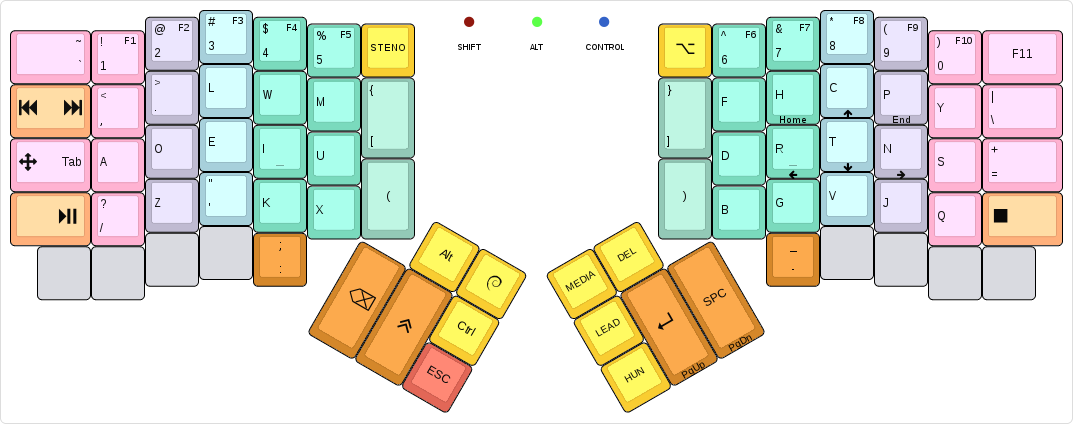
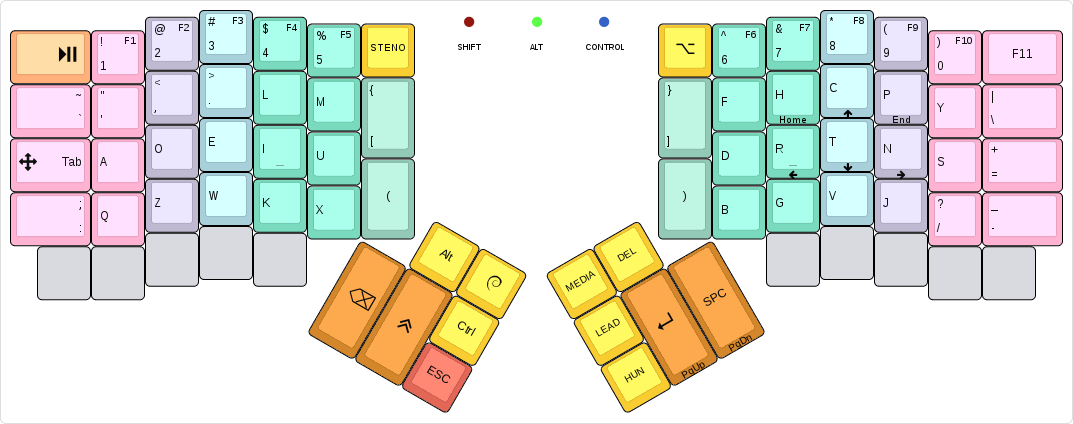
ADORE: Major changes
Changed a lot of things, based on recentish experiments. This is still a work in
progress, the heatmap base has to be updated still, for example. But this
addresses the key points of #77.

Does not fix it yet, because I need to test these changes.

diff --git a/keymap.c b/keymap.c
@@ -157,18 +157,18 @@ const uint16_t PROGMEM keymaps[][MATRIX_ROWS][MATRIX_COLS] = {
 /* Keymap 1: Adore layer
  *
  * ,-----------------------------------------------------.           ,-----------------------------------------------------.
- * |        `~ | 1 F1 | 2 F2 | 3 F3 | 4 F4 | 5 F5 | Plvr |           | Apps | 6 F6 | 7 F7 | 8 F8 | 9 F9 | 0 F10|       F11 |
+ * | Play/Pause| 1 F1 | 2 F2 | 3 F3 | 4 F4 | 5 F5 | Plvr |           | Apps | 6 F6 | 7 F7 | 8 F8 | 9 F9 | 0 F10|       F11 |
  * |-----------+------+------+------+------+-------------|           |------+------+------+------+------+------+-----------|
- * | Next/Prev |   ,  |   .  |   L  |   W  |   M  |   [  |           |  ]   |   F  |   H  |   C  |   P  |  Y   | \         |
+ * |        `~ |   '  |   ,  |   .  |   L  |   M  |   [  |           |  ]   |   F  |   H  |   C  |   P  |  Y   | \         |
  * |-----------+------+------+------+------+------|      |           |      |------+------+------+------+------+-----------|
- * | Tab/Arrow |   A  |   O  |   E  |   I  |   U  |------|           |------|   D  |   R  |   T  |   N  |  S   | = / Arrow |
+ * | Tab/Arrow |   A  |   O  |   E  |   I  |   U  |------|           |------|   D  |   R  |   T  |   N  |  S   | =         |
  * |-----------+------+------+------+------+------|   (  |           |  )   |------+------+------+------+------+-----------|
- * | Play/Pause|   /  |   Z  |   '  |   K  |   X  |      |           |      |   B  |   G  |   V  |   J  |  Q   |      Stop |
+ * |         : |   Q  |   Z  |   W  |   K  |   X  |      |           |      |   B  |   G  |   V  |   J  |  /   | -         |
  * `-----------+------+------+------+------+-------------'           `-------------+------+------+------+------+-----------'
- *     |       |      |      |      |   :  |                                       |   -  |      |      |      |       |
+ *     |       |      |      |      |      |                                       |      |      |      |      |       |
  *     `-----------------------------------'                                       `-----------------------------------'
  *                                         ,-------------.           ,-------------.
- *                                         | LAlt | GUI  |           | MDIA |      |
+ *                                         | LAlt | GUI  |           | MDIA | Del  |
  *                                  ,------|------|------|           |------+------+------.
  *                                  |      |      | Ctrl |           | LEAD |      |      |
  *                                  |Backsp|LShift|------|           |------| Enter| Space|
@@ -177,22 +177,22 @@ const uint16_t PROGMEM keymaps[][MATRIX_ROWS][MATRIX_COLS] = {
  */
 [ADORE] = KEYMAP(
 // left hand
- KC_GRV             ,M(KF_1)     ,M(KF_2)     ,M(KF_3),M(KF_4),M(KF_5),M(A_PLVR)
-,M(A_MPN)           ,KC_COMM     ,KC_DOT      ,KC_L   ,KC_W   ,KC_M   ,KC_LBRC
+ KC_MPLY            ,M(KF_1)     ,M(KF_2)     ,M(KF_3),M(KF_4),M(KF_5),M(A_PLVR)
+,KC_GRV             ,KC_QUOT     ,KC_COMM     ,KC_DOT ,KC_L   ,KC_M   ,KC_LBRC
 ,TD(CT_TA)          ,KC_A        ,KC_O        ,KC_E   ,KC_I   ,KC_U
-,KC_MPLY            ,KC_SLSH     ,KC_Z        ,KC_QUOT,KC_K   ,KC_X   ,KC_LPRN
-,KC_NO              ,KC_NO       ,KC_NO       ,KC_NO  ,TD(CT_CLN)
+,TD(CT_CLN)         ,KC_Q        ,KC_Z        ,KC_W   ,KC_K   ,KC_X   ,KC_LPRN
+,KC_NO              ,KC_NO       ,KC_NO       ,KC_NO  ,KC_NO
 
                                                             ,F(F_ALT),F(F_GUI)
                                                                      ,F(F_CTRL)
                                                     ,KC_BSPC,F(F_SFT),M(A_ESC)
 
                                                                 // right hand
-                                                               ,KC_APP    ,M(KF_6),M(KF_7)   ,M(KF_8),M(KF_9) ,M(KF_10) ,KC_F11
-                                                               ,KC_RBRC   ,KC_F   ,KC_H      ,KC_C   ,KC_P    ,KC_Y     ,KC_BSLS
-                                                                          ,KC_D   ,KC_R      ,KC_T   ,KC_N    ,KC_S     ,KC_EQL
-                                                               ,KC_RPRN   ,KC_B   ,KC_G      ,KC_V   ,KC_J    ,KC_Q     ,KC_MSTP
-                                                                                  ,TD(CT_MNS),KC_NO  ,KC_NO   ,KC_NO    ,KC_NO
+                                                               ,KC_APP    ,M(KF_6),M(KF_7),M(KF_8),M(KF_9) ,M(KF_10) ,KC_F11
+                                                               ,KC_RBRC   ,KC_F   ,KC_H   ,KC_C   ,KC_P    ,KC_Y     ,KC_BSLS
+                                                                          ,KC_D   ,KC_R   ,KC_T   ,KC_N    ,KC_S     ,KC_EQL
+                                                               ,KC_RPRN   ,KC_B   ,KC_G   ,KC_V   ,KC_J    ,KC_SLSH  ,TD(CT_MNS)
+                                                                                  ,KC_NO  ,KC_NO  ,KC_NO   ,KC_NO    ,KC_NO
 
                                                                ,OSL(NMDIA),KC_DEL
                                                                ,KC_LEAD

diff --git a/readme.md b/readme.md
@@ -136,6 +136,7 @@ The keymap default to forcing NKRO, which seems to upset Windows, and except the
 ## v1.5 - UNRELEASED
 * The **1HAND** layer has been removed.
 * A `Delete` key is now available on the right thumb cluster.
+* The [ADORE](#adore-layer) layer received a major update, see the layout image above.
 
 ## v1.4 - 2016-07-29
 
